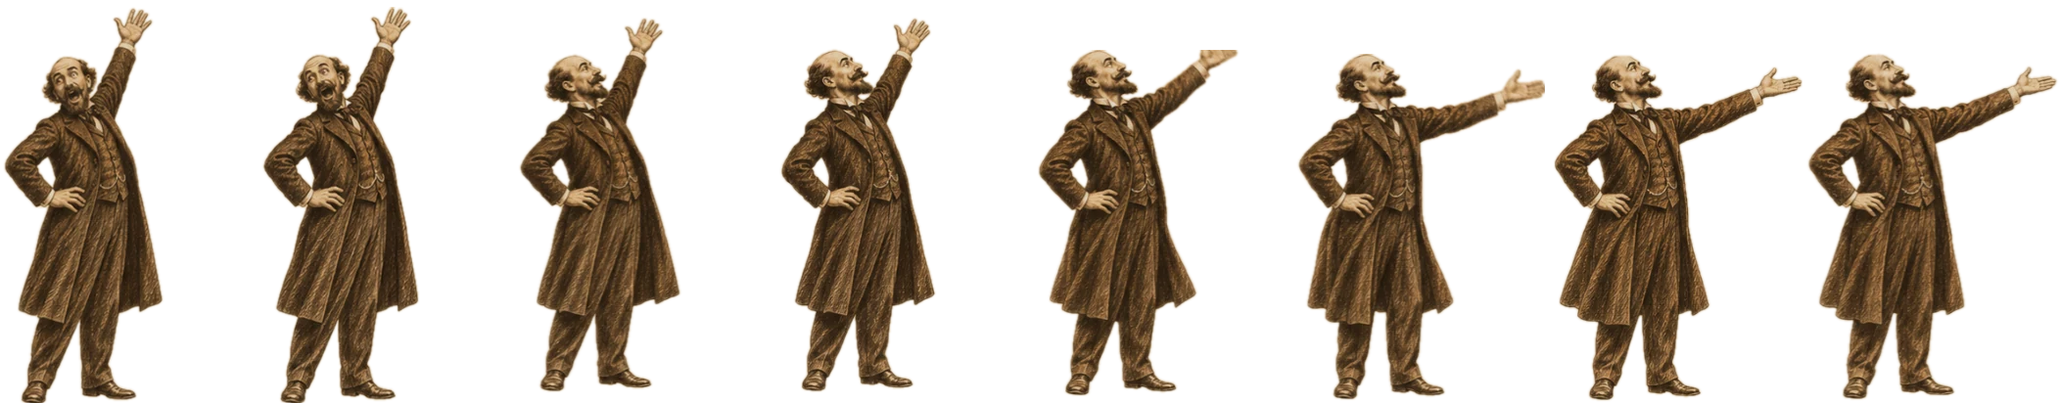
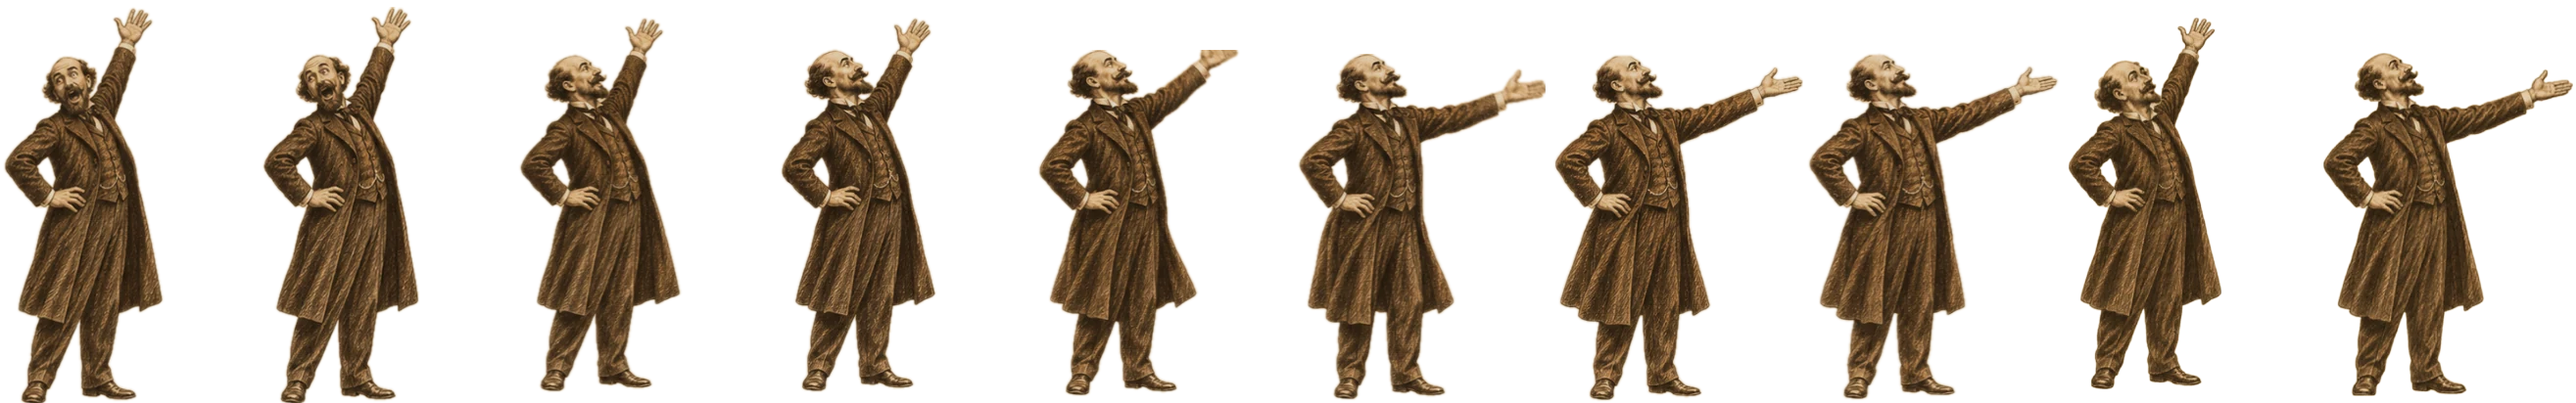
Méliès: intermedio en tres cuartos con el brazo arriba y rebote al bajar el brazo (dibujos corregidos por Eduardo)
Claude-Session: https://claude.ai/code/session_01LtQWqW57MNdNBFtF9krvzY

diff --git a/studio/index.html b/studio/index.html
@@ -11,7 +11,7 @@ a{color:#1F3A5F;text-decoration-color:#8B6914}a:hover{color:#142640}
 button{font:inherit;cursor:pointer}
 @keyframes girar{from{transform:perspective(2400px) rotateY(-80deg);opacity:0}to{transform:perspective(2400px) rotateY(0deg);opacity:1}}
 .libro{transition:transform .5s ease}button:hover .libro{transform:rotateY(-4deg) rotateX(0deg) translateY(-6px)!important}
-@keyframes trote{0%,100%{translate:0 0}50%{translate:0 -1.2%}}@keyframes galope{0%,100%{translate:0 0}50%{translate:0 -2%}}.trote{animation:trote .52s ease-in-out infinite}.galope{animation:galope .38s ease-in-out infinite}@keyframes cuadros8{to{background-position-x:114.2857%}}.cuadros8{animation:cuadros8 .56s steps(8) infinite}@keyframes melies8{0%{background-position-x:0%}14.118%{background-position-x:28.5714%}18.824%{background-position-x:42.8571%}54.118%{background-position-x:57.1429%}57.647%{background-position-x:71.4286%}60%{background-position-x:85.7143%}64.706%,100%{background-position-x:100%}}.melies8{animation:melies8 3.54s step-end infinite}@keyframes cuadros14{to{background-position-x:107.6923%}}.cuadros14{animation:cuadros14 4.2s steps(14) infinite}@media (prefers-reduced-motion: reduce){.trote,.galope,.cuadros8,.cuadros14,.melies8{animation:none}.melies8{background-position-x:100%}}
+@keyframes trote{0%,100%{translate:0 0}50%{translate:0 -1.2%}}@keyframes galope{0%,100%{translate:0 0}50%{translate:0 -2%}}.trote{animation:trote .52s ease-in-out infinite}.galope{animation:galope .38s ease-in-out infinite}@keyframes cuadros8{to{background-position-x:114.2857%}}.cuadros8{animation:cuadros8 .56s steps(8) infinite}@keyframes melies8{0%{background-position-x:0%}13.793%{background-position-x:88.8889%}48.276%{background-position-x:33.3333%}52.874%{background-position-x:44.4444%}56.322%{background-position-x:55.5556%}58.621%{background-position-x:66.6667%}60.920%{background-position-x:100%}65.517%,100%{background-position-x:77.7778%}}.melies8{animation:melies8 3.625s step-end infinite}@keyframes cuadros14{to{background-position-x:107.6923%}}.cuadros14{animation:cuadros14 4.2s steps(14) infinite}@media (prefers-reduced-motion: reduce){.trote,.galope,.cuadros8,.cuadros14,.melies8{animation:none}.melies8{background-position-x:77.7778%}}
 .pagina{animation:girar 0.9s cubic-bezier(.2,.7,.2,1) both;transform-origin:left center}
 @media (prefers-reduced-motion: reduce){.pagina{animation:none}}
 </style>
@@ -295,7 +295,7 @@ renderVals: function () {
         aria: 'Abrir el capítulo IV, Evaluación', imagen: '../assets/img/portada_iv_video_poster.webp', mapa: '', anim: '', capas: [], video: '../assets/img/portada_iv_video.mp4', banda: '../assets/img/portada_iv_banda.webp', bandaAlto: 25.5, alt: 'El público de una función de cine se sobresalta y la mirada entra a la pantalla hasta que la locomotora llena todo el cuadro, dibujo a lápiz sepia animado', pie: 'Quien mira y quien cruza. Boceto de «El bosque cambia».' },
       dis: { contador: 'CAPÍTULO V DE V', romano: 'V', titulo: 'Distribución', verbo: 'EXHIBIR', fondo: '../assets/img/e7.jpg',
         frase: 'Georges Méliès fundó su propia casa productora, Star Film, y ponía su estrella en las películas para que nadie se las adueñara. La última portada de este libro es tuya: tu casa productora firma la obra y la entrega a quien la estaba esperando.',
-        aria: 'Abrir el capítulo V, Distribución', imagen: '../assets/img/portada_v3.webp', mapa: '../assets/img/portada_v3_mapa.webp', anim: 'dis', video: '', capas: [capa('../assets/img/melies_tira.webp', 15.275, 5.657, 29.656, 82.762, 3.54, 0, 1.52, 0.36, 8, 'melies8'), capa('../assets/img/v_oclusor.webp', 5.625, 31.737, 40.625, 44.321, 1, 0, 1.92, 1.17, 1)], alt: 'Georges Méliès grita «¡acción!» al camarógrafo, voltea y presenta con el brazo su Luna con la cápsula en el ojo, mientras sus ayudantes guardan películas de Star Film en cajas rumbo a París, Nueva York, Londres, Barcelona y México, dibujo a lápiz sepia', pie: 'Ejemplo: el ident de CineIAStudio. Aquí irá el de tu casa productora.' }
+        aria: 'Abrir el capítulo V, Distribución', imagen: '../assets/img/portada_v3.webp', mapa: '../assets/img/portada_v3_mapa.webp', anim: 'dis', video: '', capas: [capa('../assets/img/melies_tira.webp', 15.275, 5.657, 29.656, 82.762, 3.625, 0, 1.52, 0.36, 10, 'melies8'), capa('../assets/img/v_oclusor.webp', 5.625, 31.737, 40.625, 44.321, 1, 0, 1.92, 1.17, 1)], alt: 'Georges Méliès grita «¡acción!» al camarógrafo, voltea y presenta con el brazo su Luna con la cápsula en el ojo, mientras sus ayudantes guardan películas de Star Film en cajas rumbo a París, Nueva York, Londres, Barcelona y México, dibujo a lápiz sepia', pie: 'Ejemplo: el ident de CineIAStudio. Aquí irá el de tu casa productora.' }
     };
     const etiquetas = [['pre', 'I · Preproducción'], ['pro', 'II · Producción'], ['post', 'III · Postproducción'], ['eva', 'IV · Evaluación'], ['dis', 'V · Distribución']];
     const pestanas = etiquetas.map(([id, label]) => ({ label, active: id === f, idle: id !== f, ir: () => this.setState({ vista: 'cap', fase: id, r: 0 }) }));
